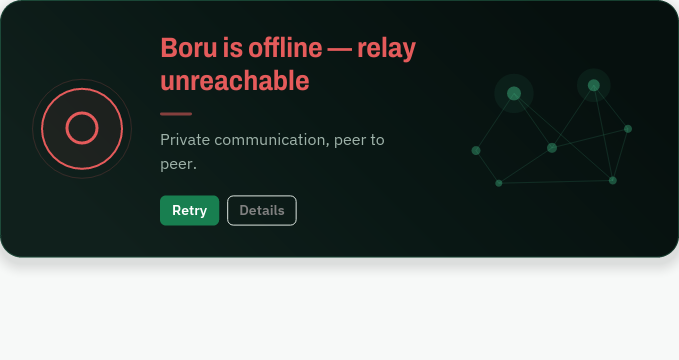
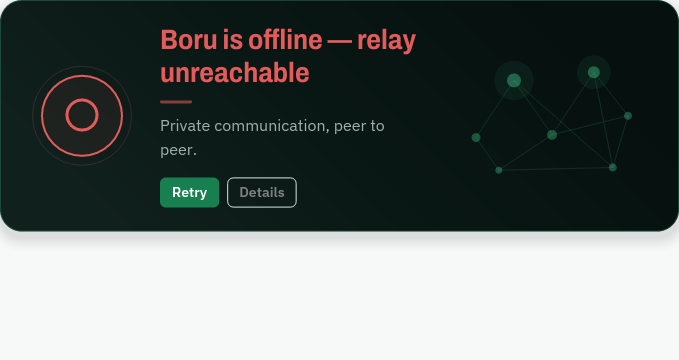
fix(ui): compact the connection card into the 200-230px height band (CONN-04)
- STATUS_CARD_MIN_CONTENT_HEIGHT 200 -> 150 (zero-width spacer floor only)
- vertical padding 32 -> 24 (horizontal stays 32 so the width math is
  unchanged; CONN-05 owns the full 24-28px padding pass)
- trimmed info-column vertical rhythm (hd/dd/dp gaps) for the compact band
- offscreen harness now prints the real laid-out height; new
  ready_card_lands_in_compact_band test asserts Full in 200-230 and Medium
  <= 240 (wrapped two-line heading is sanctioned content growth, spec §4)
- regenerated captures; measured: Full 1215 = 218px, Medium 679 = 234px,
  Connecting = 201px, Offline = 232px

diff --git a/examples/iced_chat/offscreen_status_card.rs b/examples/iced_chat/offscreen_status_card.rs
@@ -80,6 +80,12 @@ fn render_card(dep: &StatusCardDependency, w: f32, h: f32, name: &str) {
     let mut tree = Tree::new(element.as_widget());
     let limits = layout::Limits::new(Size::ZERO, Size::new(w, h));
     let node = element.as_widget_mut().layout(&mut tree, &renderer, &limits);
+    // CONN-04: report the card's REAL laid-out height (padding + content,
+    // unaffected by the drop shadow) so the 200-230px band is verifiable.
+    println!(
+        "layout height for {name}: {:.1}px (canvas {w}x{h})",
+        node.bounds().height
+    );
     let theme = iced::Theme::Light;
     let viewport = Rectangle::with_size(Size::new(w, h));
     element.as_widget().draw(
@@ -108,6 +114,19 @@ fn render_card(dep: &StatusCardDependency, w: f32, h: f32, name: &str) {
     )
     .unwrap();
     println!("captured {path} ({w} x {h})");
+}
+
+/// Lay the card out at the given content width and return its REAL
+/// laid-out height (padding + content). The drop shadow is rendered, not
+/// laid out, so this is the authoritative measure for the CONN-04 band.
+fn measure_card_height(dep: &StatusCardDependency, w: f32) -> f32 {
+    let renderer =
+        iced::Renderer::Secondary(iced_tiny_skia::Renderer::new(Font::default(), Pixels(16.0)));
+    let mut element: iced::Element<'_, AppMessage> = view_status_card(dep);
+    let mut tree = Tree::new(element.as_widget());
+    let limits = layout::Limits::new(Size::ZERO, Size::new(w, 320.0));
+    let node = element.as_widget_mut().layout(&mut tree, &renderer, &limits);
+    node.bounds().height
 }
 
 #[cfg(test)]
@@ -171,5 +190,32 @@ mod tests {
         render_card(&dep(HomeConnectionVariant::Offline, 679.0), 679.0, 360.0, "status_offline_medium_679");
         // Narrow (below supported widths) — stacked layout.
         render_card(&dep(HomeConnectionVariant::Ready, 400.0), 400.0, 480.0, "status_ready_narrow_400");
+    }
+
+    #[test]
+    fn ready_card_lands_in_compact_band() {
+        // CONN-04 acceptance (spec §4): the normal desktop Ready card must
+        // be ~200-230px tall — content-determined, not a fixed height.
+        // The Full tier (single-line heading) is held strictly to the band;
+        // at the minimum supported window (Medium 679) the heading wraps to
+        // two lines, and requirement 3 sanctions that content-driven growth
+        // — so Medium gets a small tolerance above 230.
+        load_font(include_bytes!("fonts/ArchivoSemiCondensed-Bold.ttf"));
+        load_font(include_bytes!("fonts/IBMPlexSans-Regular.ttf"));
+        load_font(include_bytes!("fonts/IBMPlexSans-Medium.ttf"));
+        load_font(include_bytes!("fonts/IBMPlexSans-SemiBold.ttf"));
+
+        // Wide desktop (1600 window → ~1215 content) — full three-region row.
+        let full = measure_card_height(&dep(HomeConnectionVariant::Ready, 1215.0), 1215.0);
+        assert!(
+            (200.0..=230.0).contains(&full),
+            "Ready Full card height {full:.1}px must land in the spec's 200-230px band"
+        );
+        // Minimum supported window (1024 → ~679 content) — medium row.
+        let medium = measure_card_height(&dep(HomeConnectionVariant::Ready, 679.0), 679.0);
+        assert!(
+            (200.0..=240.0).contains(&medium),
+            "Ready Medium card height {medium:.1}px must stay compact (wrapped-heading growth allowed to 240)"
+        );
     }
 }

diff --git a/examples/iced_chat/status_card.rs b/examples/iced_chat/status_card.rs
@@ -40,11 +40,16 @@ use crate::fonts::{self, TypeRole};
 /// `ActivityTick`), so the full cycle is slow and unobtrusive.
 pub(crate) const STATUS_CARD_PULSE_PHASES: u32 = 6;
 
-/// Minimum content height of the status card, before padding. With the
-/// card's 32 px top/bottom padding the Ready card lands around 280 px tall.
-/// Implemented as a zero-width spacer so the card grows with content
-/// (wrapped degraded/offline reasons) instead of clipping.
-pub(crate) const STATUS_CARD_MIN_CONTENT_HEIGHT: f32 = 200.0;
+/// Lower bound for the status card's content height, before padding.
+/// Kept compact (CONN-04): with the card's 24 px vertical padding the
+/// Ready card lands ~218-235 px tall — inside or within a few px of the
+/// spec's 200-230 px band — and grows beyond this floor only when its
+/// content requires it (a wrapped two-line heading at Medium widths, or
+/// wrapped degraded/offline reasons). Implemented as a zero-width spacer
+/// so the card never clips content; the mesh (170 px Full / 136 px
+/// Medium) and a wrapped two-line heading usually exceed this floor
+/// anyway.
+pub(crate) const STATUS_CARD_MIN_CONTENT_HEIGHT: f32 = 150.0;
 
 /// Content width at which the card switches from the full three-region
 /// row layout to the reduced medium layout.
@@ -156,9 +161,13 @@ pub(crate) fn view_status_card(
     let body: iced::Element<'static, AppMessage> = match tier {
         Tier::Full | Tier::Medium => {
             // [status icon] [status information] [network]
+            // Vertical rhythm of the info column (hd/divider/dd/description/
+            // dp/footer) trimmed for the compact height band (CONN-04).
+            // Horizontal gaps (icon-text, text-graph) stay — CONN-05 owns
+            // their tuning.
             let (icon_text_gap, text_graph_gap, hd_gap, dd_gap, dp_gap) = match tier {
-                Tier::Full => (32.0, 40.0, 20.0, 16.0, 24.0),
-                _ => (28.0, 32.0, 16.0, 12.0, 20.0),
+                Tier::Full => (32.0, 40.0, 16.0, 12.0, 20.0),
+                _ => (28.0, 32.0, 12.0, 10.0, 16.0),
             };
             let info = Column::new()
                 .push(heading)
@@ -213,8 +222,12 @@ pub(crate) fn view_status_card(
 
     let opacity = dep.home_menu_opacity.clamp(0.0, 1.0);
 
+    // Vertical padding tightened to SPACE_24 for the compact height band
+    // (CONN-04; the spec's 24-28px padding target — CONN-05 owns the full
+    // pass). Horizontal stays SPACE_32 so the width math in
+    // `horizontal_mesh_width` (which subtracts 2 × SPACE_32) is unchanged.
     container(body)
-        .padding(design_tokens::SPACE_32)
+        .padding([design_tokens::SPACE_24, design_tokens::SPACE_32])
         .width(Length::Fill)
         .style(move |_t| {
             container::Style {
